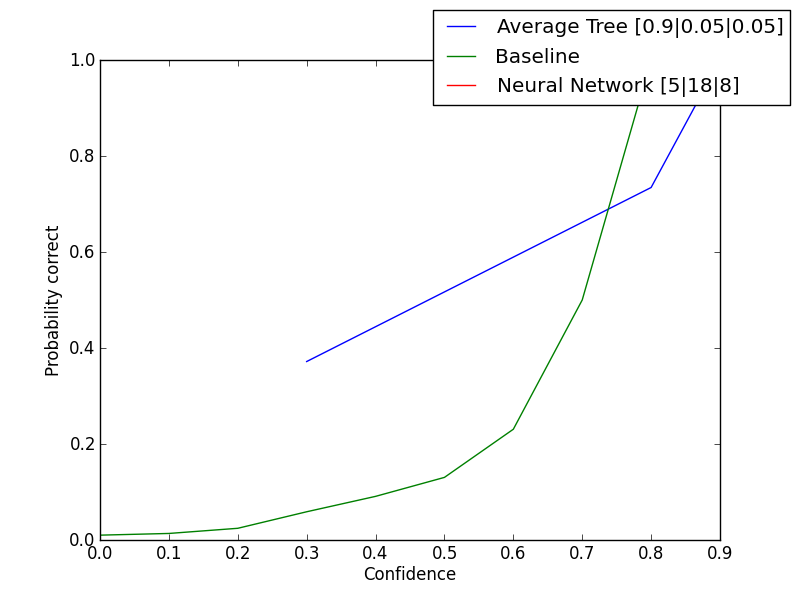
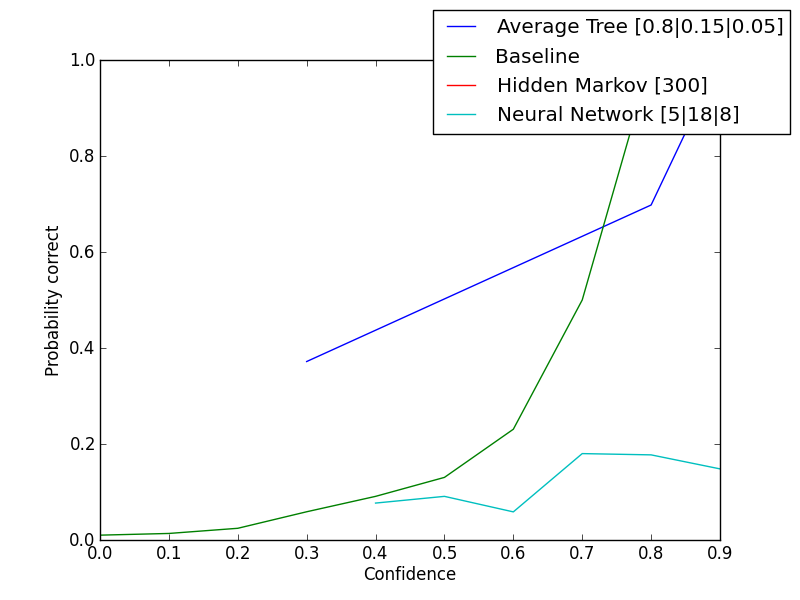
HMM graph + updated testframe

diff --git a/src/com/beinformed/research/labs/dialogprogress/HMMPredictor.java b/src/com/beinformed/research/labs/dialogprogress/HMMPredictor.java
@@ -9,19 +9,20 @@ import java.util.Map;
 import java.util.HashMap;
 import java.util.List;
 import java.util.ArrayList;
-import java.util.EnumSet;
 
-public class HMMPredictor{ 
+public class HMMPredictor implements Predictor { 
 
 	double[] pi;
 	List<String> states = new ArrayList<String>();	
 	double[][] a;
 	Hmm<ObservationDiscrete<ReturnType>> model;
-	List<OpdfDiscrete<ReturnType>> opdfs; 
+	ArrayList<OpdfDiscrete<ReturnType>> opdfs; 
 	BaumWelchLearner trainer;
 	List<List<ObservationDiscrete<ReturnType>>> sequences;
+	private int nb;
 	
-	public HMMPredictor( ){
+	public HMMPredictor(int nb){
+		this.nb = nb;
 	}	
 
 	/**
@@ -51,6 +52,7 @@ public class HMMPredictor{
 			else
 				pi[i] = 0;
 			i++;
+			opdfs.add( new OpdfDiscrete<ReturnType>( ReturnType.class ));
 		}
 	}
 
@@ -59,10 +61,10 @@ public class HMMPredictor{
 		for( Question q : obs.getQuestions() ){
 			if( !states.contains(q.getId()))
 				states.add(q.getId());	
-			seq.add( new ObservationDiscrete<ReturnType>( q.getRType()));
+			seq.add( new ObservationDiscrete<ReturnType>( q.getStatus()));
 		}
-		sequences.add(seq);
-		opdfs.add(new OpdfDiscrete<ReturnType>( ReturnType.class ) );
+		if( seq.size() > 1 )
+			sequences.add(seq);
 	}
 
 	private void setTransitionProbs( Iterable<Observation> data ){
@@ -74,8 +76,8 @@ public class HMMPredictor{
 		for(String stateI : states ){
 			int j = 0;
 			for( String stateJ : states ){
-				String transStates = stateI + "," + stateJ;
-				if(probs.containsValue(transStates))
+				String transStates = stateI + "," + stateJ + ",";
+				if(probs.containsKey(transStates))
 					a[i][j] = probs.get(transStates);
 				else
 					a[i][j] = 0;
@@ -88,12 +90,45 @@ public class HMMPredictor{
 	
 	public void train(Iterable<Observation> data ){
 		
+				
 		opdfs = new ArrayList<OpdfDiscrete<ReturnType>>();
 		sequences = new ArrayList<List<ObservationDiscrete<ReturnType>>>();
 		setPi(data);	
 		setTransitionProbs(data);
-		model = new Hmm<ObservationDiscrete<ReturnType>>(pi, a, opdfs);
+		opdfs.trimToSize();
+
+		if(model == null)
+			model = new Hmm<ObservationDiscrete<ReturnType>>(pi, a, opdfs);
 		trainer = new BaumWelchLearner();
-		trainer.learn(model, sequences);
+		trainer.setNbIterations(nb);
+		model = trainer.learn(model, sequences);
+		
 	}
+	
+	public Prediction predict ( Observation obs ){
+		List<ObservationDiscrete<ReturnType>> seqTest = new ArrayList<ObservationDiscrete<ReturnType>>();
+		for (Question q : obs.getQuestions()){
+			seqTest.add( new ObservationDiscrete<ReturnType>( q.getStatus()));
+		}
+		
+		int[] res = model.mostLikelyStateSequence(seqTest);
+		int remSteps = res.length - obs.getNoQuestions();
+		
+		Prediction predSteps = new Prediction(.5, remSteps, remSteps, PredictionUnit.Steps );		
+/**		for ( int i : res )
+			System.out.printf(" %d -", i);
+		System.out.println();
+		for (int i = 0 ; i < a.length ; i++ ){
+			for (int j = 0 ; j < a.length ; j++ )
+				System.out.printf("%f ",model.getAij(i,j));
+			System.out.println();
+**/		
+		return predSteps;
+	}
+	
+	@Override
+	public String toString() {
+		return "Hidden Markov [" + nb + "]";
+	}
+
 } 

diff --git a/src/com/beinformed/research/labs/dialogprogress/Question.java b/src/com/beinformed/research/labs/dialogprogress/Question.java
@@ -58,6 +58,10 @@ public class Question {
 		String date = SimpleDateFormat.getDateTimeInstance().format(new Date(timestamp));
 		return  date + ": " + id + "=" + answer + "-" + status;
 	}
+
+	public ReturnType getStatus() {
+		return ReturnType.valueOf(status);
+	}
 }
 
 
